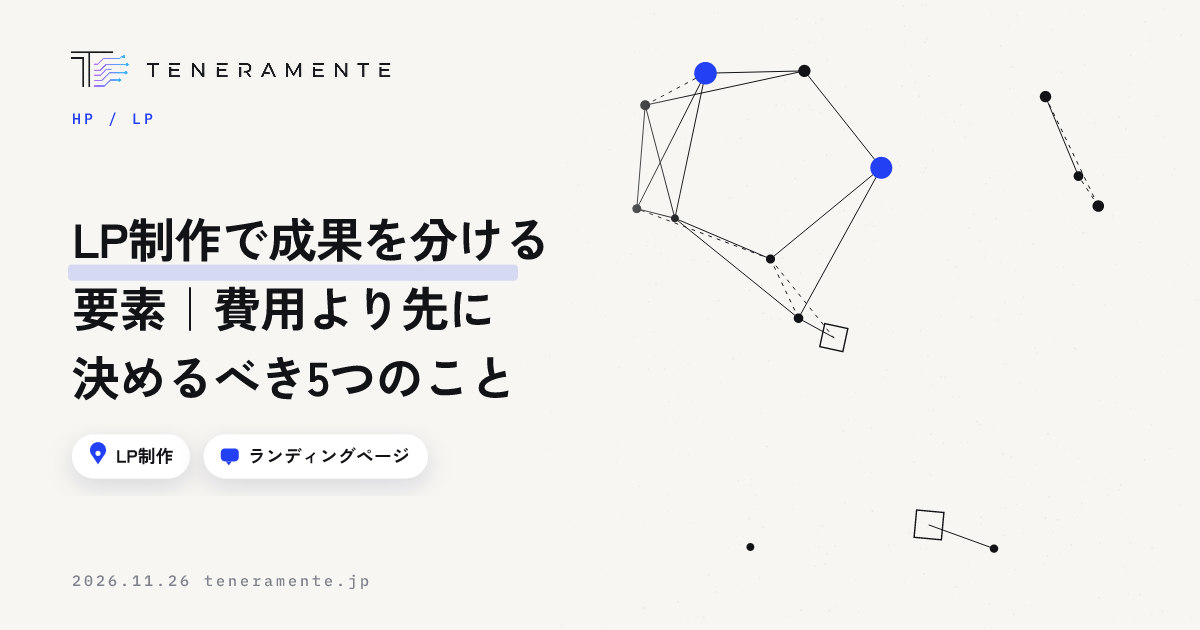
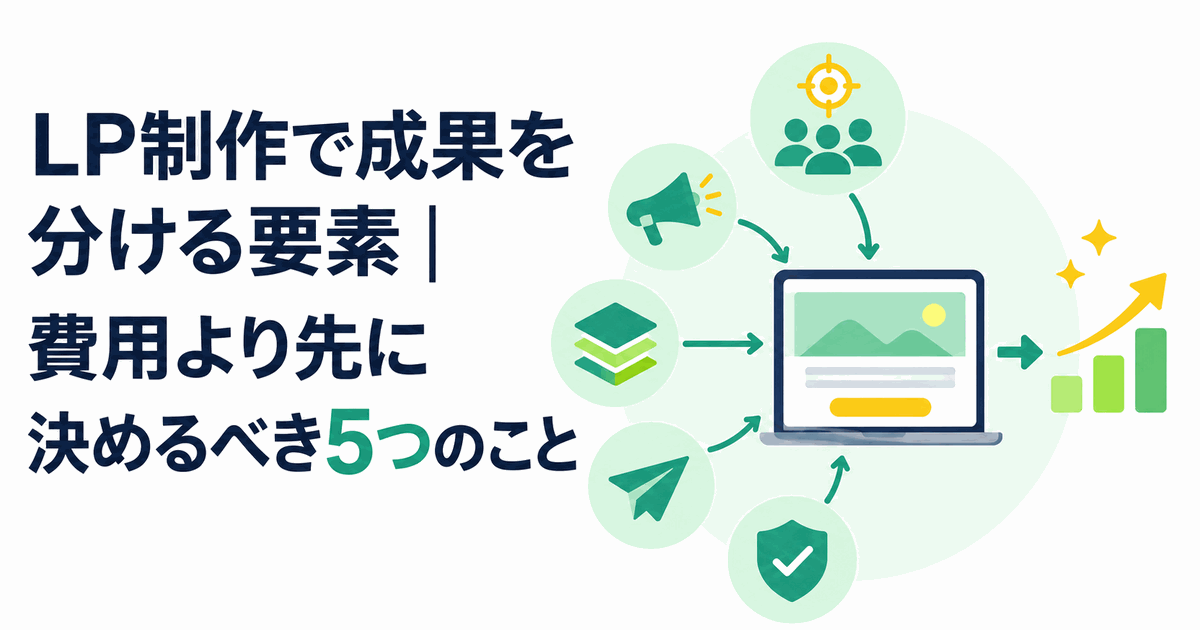
covers: 記事のトップ画像を ChatGPT の画像に差し替え（k042・k045・k035・m209・m208・m207・m206・m060）

diff --git a/mieroom/articles/moushikomi-juufuku-taio.html b/mieroom/articles/moushikomi-juufuku-taio.html
@@ -13,12 +13,15 @@
 <meta property="og:description" content="同じ部屋に申込が重なったときの店舗側の進め方を整理しました。最初に確かめる4つ、店舗で決められることと貸主・管理会社が決めること、二番手の方への伝え方、順番が後から分かる記録の残し方、よくある失敗までをまとめています。">
 <meta property="og:url" content="https://mieroom.cloud/articles/moushikomi-juufuku-taio.html">
 <meta property="og:site_name" content="ミエルーム">
+<meta property="og:image" content="https://mieroom.cloud/assets/covers/moushikomi-juufuku-taio.png">
+<meta property="og:image:width" content="1200">
+<meta property="og:image:height" content="675">
 <meta name="twitter:card" content="summary_large_image">
 <link rel="preconnect" href="https://fonts.googleapis.com">
 <link rel="preconnect" href="https://fonts.gstatic.com" crossorigin>
 <link href="https://fonts.googleapis.com/css2?family=Noto+Sans+JP:wght@400;500;700;900&family=Zen+Kaku+Gothic+New:wght@500;700;900&display=swap" rel="stylesheet">
 <link rel="stylesheet" href="../assets/site.css">
-<script type="application/ld+json">{"@context":"https://schema.org","@graph":[{"@type":"BlogPosting","headline":"賃貸の申込が重なったときの進め方｜一番手・二番手の管理と伝え方","description":"同じ部屋に申込が重なったときの店舗側の進め方を整理しました。最初に確かめる4つ、店舗で決められることと貸主・管理会社が決めること、二番手の方への伝え方、順番が後から分かる記録の残し方、よくある失敗までをまとめています。","datePublished":"2026-11-25","dateModified":"2026-11-25","inLanguage":"ja","mainEntityOfPage":"https://mieroom.cloud/articles/moushikomi-juufuku-taio.html","articleSection":"業務効率化","author":{"@type":"Organization","name":"ミエルーム編集部"},"publisher":{"@type":"Organization","name":"株式会社TENERAMENTE","logo":{"@type":"ImageObject","url":"https://teneramente.jp/assets/img/favicon-512.png"}},"keywords":"申込管理, 入居審査, 繁忙期, 業務効率化, 賃貸仲介"},{"@type":"BreadcrumbList","itemListElement":[{"@type":"ListItem","position":1,"name":"ミエルーム","item":"https://mieroom.cloud/"},{"@type":"ListItem","position":2,"name":"ブログ","item":"https://mieroom.cloud/blog.html"},{"@type":"ListItem","position":3,"name":"賃貸の申込が重なったときの進め方｜一番手・二番手の管理と伝え方","item":"https://mieroom.cloud/articles/moushikomi-juufuku-taio.html"}]},{"@type":"FAQPage","mainEntity":[{"@type":"Question","name":"申込は先に出した方が有利になるのでしょうか？","acceptedAnswer":{"@type":"Answer","text":"部屋によって異なります。申込を受けた順に審査へ進める方針の貸主もいますし、複数の申込内容を比べて決める方針の貸主もいます。店舗側で判断できる事項ではないため、部屋ごとに方針を確認し、確認した内容を案件に残しておくのが確実です。お客様には、順番と内容を正確に伝える役割であることをお話しください。"}},{"@type":"Question","name":"2件目の申込書は、受け取らないほうがよいですか？","acceptedAnswer":{"@type":"Answer","text":"受け取る・受け取らないのどちらにも理由があるため、店舗として基準を先に決めておく形をおすすめします。受け取る場合は、先に申込が入っている状態であることをその場で伝え、伝えた日時を記録に残してください。基準が担当者ごとに違うと、同じ店舗で対応が分かれ、説明がつかなくなります。"}},{"@type":"Question","name":"一番手の方の審査が長引いています。二番手の方にどう伝えればよいですか？","acceptedAnswer":{"@type":"Answer","text":"分かっている事実と、分かっていないことを分けて伝えます。審査が進行中であること、結果の連絡が来ていないこと、分かり次第すぐに連絡すること。この3つで足ります。見込みの時期を伝える場合は、貸主や保証会社から聞いた範囲に限ってください。こちらの推測で期間を言うと、過ぎたときに不信につながります。"}},{"@type":"Question","name":"他社が先に申込を入れているかどうかは、確認できますか？","acceptedAnswer":{"@type":"Answer","text":"自社で預かっていない部屋では、管理会社や貸主に確認する形になります。業者間サイトの情報は更新の間隔があるため、申込状況が反映されていない場合があります。案内の前に申込の有無を確認し、確認した日時を残しておくと、重複に気づくのが早くなります。"}},{"@type":"Question","name":"重複が起きたとき、記録はどこまで残すべきですか？","acceptedAnswer":{"@type":"Answer","text":"日時・相手・伝えた内容の3点が残っていれば、後から経緯を説明できます。細かい会話の全文は不要です。重要なのは、伝えた内容と伝えた時刻が対応していることと、その記録を担当者以外も見られる場所にあることです。個人のメールや手帳の中だけに残る形は避けてください。"}}]}]}</script>
+<script type="application/ld+json">{"@context":"https://schema.org","@graph":[{"@type":"BlogPosting","headline":"賃貸の申込が重なったときの進め方｜一番手・二番手の管理と伝え方","description":"同じ部屋に申込が重なったときの店舗側の進め方を整理しました。最初に確かめる4つ、店舗で決められることと貸主・管理会社が決めること、二番手の方への伝え方、順番が後から分かる記録の残し方、よくある失敗までをまとめています。","datePublished":"2026-11-25","dateModified":"2026-11-25","inLanguage":"ja","mainEntityOfPage":"https://mieroom.cloud/articles/moushikomi-juufuku-taio.html","image":"https://mieroom.cloud/assets/covers/moushikomi-juufuku-taio.png","articleSection":"業務効率化","author":{"@type":"Organization","name":"ミエルーム編集部"},"publisher":{"@type":"Organization","name":"株式会社TENERAMENTE","logo":{"@type":"ImageObject","url":"https://teneramente.jp/assets/img/favicon-512.png"}},"keywords":"申込管理, 入居審査, 繁忙期, 業務効率化, 賃貸仲介"},{"@type":"BreadcrumbList","itemListElement":[{"@type":"ListItem","position":1,"name":"ミエルーム","item":"https://mieroom.cloud/"},{"@type":"ListItem","position":2,"name":"ブログ","item":"https://mieroom.cloud/blog.html"},{"@type":"ListItem","position":3,"name":"賃貸の申込が重なったときの進め方｜一番手・二番手の管理と伝え方","item":"https://mieroom.cloud/articles/moushikomi-juufuku-taio.html"}]},{"@type":"FAQPage","mainEntity":[{"@type":"Question","name":"申込は先に出した方が有利になるのでしょうか？","acceptedAnswer":{"@type":"Answer","text":"部屋によって異なります。申込を受けた順に審査へ進める方針の貸主もいますし、複数の申込内容を比べて決める方針の貸主もいます。店舗側で判断できる事項ではないため、部屋ごとに方針を確認し、確認した内容を案件に残しておくのが確実です。お客様には、順番と内容を正確に伝える役割であることをお話しください。"}},{"@type":"Question","name":"2件目の申込書は、受け取らないほうがよいですか？","acceptedAnswer":{"@type":"Answer","text":"受け取る・受け取らないのどちらにも理由があるため、店舗として基準を先に決めておく形をおすすめします。受け取る場合は、先に申込が入っている状態であることをその場で伝え、伝えた日時を記録に残してください。基準が担当者ごとに違うと、同じ店舗で対応が分かれ、説明がつかなくなります。"}},{"@type":"Question","name":"一番手の方の審査が長引いています。二番手の方にどう伝えればよいですか？","acceptedAnswer":{"@type":"Answer","text":"分かっている事実と、分かっていないことを分けて伝えます。審査が進行中であること、結果の連絡が来ていないこと、分かり次第すぐに連絡すること。この3つで足ります。見込みの時期を伝える場合は、貸主や保証会社から聞いた範囲に限ってください。こちらの推測で期間を言うと、過ぎたときに不信につながります。"}},{"@type":"Question","name":"他社が先に申込を入れているかどうかは、確認できますか？","acceptedAnswer":{"@type":"Answer","text":"自社で預かっていない部屋では、管理会社や貸主に確認する形になります。業者間サイトの情報は更新の間隔があるため、申込状況が反映されていない場合があります。案内の前に申込の有無を確認し、確認した日時を残しておくと、重複に気づくのが早くなります。"}},{"@type":"Question","name":"重複が起きたとき、記録はどこまで残すべきですか？","acceptedAnswer":{"@type":"Answer","text":"日時・相手・伝えた内容の3点が残っていれば、後から経緯を説明できます。細かい会話の全文は不要です。重要なのは、伝えた内容と伝えた時刻が対応していることと、その記録を担当者以外も見られる場所にあることです。個人のメールや手帳の中だけに残る形は避けてください。"}}]}]}</script>
 <style id="mp-nav-fit">
 /* 狭い画面ではヘッダーのボタンを小さくして、右にはみ出さないようにする */
 @media (max-width: 640px) {
@@ -72,7 +75,9 @@
     </div>
   </div>
 </section>
-
+<div class="post-cover">
+  <div class="band band--img"><img src="../assets/covers/moushikomi-juufuku-taio.webp" alt="賃貸の申込が重なったときの進め方｜一番手・二番手の管理と伝え方" width="1200" height="675" decoding="async"></div>
+</div>
 <div class="post-body">
 <p>同じ部屋に、同じ日のうちに申込が2件入った。先に書類を受け取ったのはこちらだが、もう一方は条件が良い。どちらを先に通すのかを、その場で聞かれる。賃貸仲介の店舗で、判断に迷いやすく、後から苦情になりやすい場面です。結論から申し上げると、<strong>申込の重複でもめるのは判断そのものではなく、順番と伝えた内容が記録に残っていないこと</strong>が原因です。この記事では、重なった日に迷わない進め方を順番で整理します。</p>
 <div class="conclusion"><h4>この記事の結論</h4><p>申込の重複は、店舗が決めることと貸主・管理会社が決めることを分けると迷わなくなります。先に確かめるのは<strong>受付の時刻と書類の揃い具合</strong>、決めるのは貸主側、店舗の仕事は事実を正確に伝えて記録に残すことです。この順番を崩すと、約束していないことを約束したと受け取られます。</p></div>

diff --git a/mieroom/articles/gyomu-buntan-kimekata.html b/mieroom/articles/gyomu-buntan-kimekata.html
@@ -13,12 +13,15 @@
 <meta property="og:description" content="賃貸仲介の店舗で役割分担を見直すときの決め方を整理しました。仕事を8つの工程に分けた棚卸し、一貫担当と分業で起きることの違い、決める前に確かめる4つ、受け渡しで残す情報、崩れないためのチェックリストまでをまとめています。">
 <meta property="og:url" content="https://mieroom.cloud/articles/gyomu-buntan-kimekata.html">
 <meta property="og:site_name" content="ミエルーム">
+<meta property="og:image" content="https://mieroom.cloud/assets/covers/gyomu-buntan-kimekata.png">
+<meta property="og:image:width" content="1200">
+<meta property="og:image:height" content="675">
 <meta name="twitter:card" content="summary_large_image">
 <link rel="preconnect" href="https://fonts.googleapis.com">
 <link rel="preconnect" href="https://fonts.gstatic.com" crossorigin>
 <link href="https://fonts.googleapis.com/css2?family=Noto+Sans+JP:wght@400;500;700;900&family=Zen+Kaku+Gothic+New:wght@500;700;900&display=swap" rel="stylesheet">
 <link rel="stylesheet" href="../assets/site.css">
-<script type="application/ld+json">{"@context":"https://schema.org","@graph":[{"@type":"BlogPosting","headline":"賃貸仲介の業務分担の決め方｜一貫担当と分業の分かれ目","description":"賃貸仲介の店舗で役割分担を見直すときの決め方を整理しました。仕事を8つの工程に分けた棚卸し、一貫担当と分業で起きることの違い、決める前に確かめる4つ、受け渡しで残す情報、崩れないためのチェックリストまでをまとめています。","datePublished":"2026-11-26","dateModified":"2026-11-26","inLanguage":"ja","mainEntityOfPage":"https://mieroom.cloud/articles/gyomu-buntan-kimekata.html","articleSection":"組織・育成","author":{"@type":"Organization","name":"ミエルーム編集部"},"publisher":{"@type":"Organization","name":"株式会社TENERAMENTE","logo":{"@type":"ImageObject","url":"https://teneramente.jp/assets/img/favicon-512.png"}},"keywords":"組織づくり, 役割分担, 店舗運営, 繁忙期, 賃貸仲介"},{"@type":"BreadcrumbList","itemListElement":[{"@type":"ListItem","position":1,"name":"ミエルーム","item":"https://mieroom.cloud/"},{"@type":"ListItem","position":2,"name":"ブログ","item":"https://mieroom.cloud/blog.html"},{"@type":"ListItem","position":3,"name":"賃貸仲介の業務分担の決め方｜一貫担当と分業の分かれ目","item":"https://mieroom.cloud/articles/gyomu-buntan-kimekata.html"}]},{"@type":"FAQPage","mainEntity":[{"@type":"Question","name":"スタッフが2人の店舗でも分担を決めたほうがよいですか？","acceptedAnswer":{"@type":"Answer","text":"工程を分けて割り当てる必要はありませんが、棚卸しだけは行う価値があります。2人でも、誰の担当でもない工程は必ず出ます。申込書の不備の確認や審査の追いかけを、どちらが見るか決めておくだけで、抜けが減ります。形としては一貫担当のまま、止まったときに気づく役だけを決める運用が合います。"}},{"@type":"Question","name":"分業にすると、お客様が「担当が変わった」と不安に思いませんか？","acceptedAnswer":{"@type":"Answer","text":"引き継ぎの質で決まります。受け取った側が、希望条件と案内済みの物件、前の担当が約束した内容を把握していれば、不安にはなりにくいものです。逆に、同じ質問を繰り返したり、約束を知らずに別の案を出したりすると、担当の数に関係なく信用を落とします。引き継ぐときは、誰が引き継いだかをお客様に先に伝えてください。"}},{"@type":"Question","name":"繁忙期だけ分けると、スタッフが混乱しませんか？","acceptedAnswer":{"@type":"Answer","text":"切り替える時期と、そのとき誰が何を持つかを先に紙にしておけば、混乱は小さく収まります。混乱が起きるのは、繁忙期に入ってから相談して決める場合です。閑散期のうちに一度だけ練習として分けて回してみると、本番で迷う場所が事前に分かります。"}},{"@type":"Question","name":"新しく入ったスタッフには、どの工程から任せるのがよいですか？","acceptedAnswer":{"@type":"Answer","text":"お客様をお待たせしない工程で、やり直しがきく工程から任せるのが基本です。物件資料の作成や、反響の一次受け付けの定型の返信は、形が決まっているため早く覚えられます。条件の交渉や申込の判断は、経緯の把握が必要なので後になります。覚える順番は店舗の反響の経路によって変わるので、工程の一覧を見ながら決めてください。"}},{"@type":"Question","name":"分担を決めても守られないときは、どうすればよいですか？","acceptedAnswer":{"@type":"Answer","text":"守れない工程に理由があることが多いので、まずその工程の手間を確かめてください。受け渡しのために転記が必要だったり、書く場所が複数あったりすると、忙しい日に飛ばされます。決めたことを徹底する前に、手間そのものを減らせないかを見るほうが早く定着します。"}}]}]}</script>
+<script type="application/ld+json">{"@context":"https://schema.org","@graph":[{"@type":"BlogPosting","headline":"賃貸仲介の業務分担の決め方｜一貫担当と分業の分かれ目","description":"賃貸仲介の店舗で役割分担を見直すときの決め方を整理しました。仕事を8つの工程に分けた棚卸し、一貫担当と分業で起きることの違い、決める前に確かめる4つ、受け渡しで残す情報、崩れないためのチェックリストまでをまとめています。","datePublished":"2026-11-26","dateModified":"2026-11-26","inLanguage":"ja","mainEntityOfPage":"https://mieroom.cloud/articles/gyomu-buntan-kimekata.html","image":"https://mieroom.cloud/assets/covers/gyomu-buntan-kimekata.png","articleSection":"組織・育成","author":{"@type":"Organization","name":"ミエルーム編集部"},"publisher":{"@type":"Organization","name":"株式会社TENERAMENTE","logo":{"@type":"ImageObject","url":"https://teneramente.jp/assets/img/favicon-512.png"}},"keywords":"組織づくり, 役割分担, 店舗運営, 繁忙期, 賃貸仲介"},{"@type":"BreadcrumbList","itemListElement":[{"@type":"ListItem","position":1,"name":"ミエルーム","item":"https://mieroom.cloud/"},{"@type":"ListItem","position":2,"name":"ブログ","item":"https://mieroom.cloud/blog.html"},{"@type":"ListItem","position":3,"name":"賃貸仲介の業務分担の決め方｜一貫担当と分業の分かれ目","item":"https://mieroom.cloud/articles/gyomu-buntan-kimekata.html"}]},{"@type":"FAQPage","mainEntity":[{"@type":"Question","name":"スタッフが2人の店舗でも分担を決めたほうがよいですか？","acceptedAnswer":{"@type":"Answer","text":"工程を分けて割り当てる必要はありませんが、棚卸しだけは行う価値があります。2人でも、誰の担当でもない工程は必ず出ます。申込書の不備の確認や審査の追いかけを、どちらが見るか決めておくだけで、抜けが減ります。形としては一貫担当のまま、止まったときに気づく役だけを決める運用が合います。"}},{"@type":"Question","name":"分業にすると、お客様が「担当が変わった」と不安に思いませんか？","acceptedAnswer":{"@type":"Answer","text":"引き継ぎの質で決まります。受け取った側が、希望条件と案内済みの物件、前の担当が約束した内容を把握していれば、不安にはなりにくいものです。逆に、同じ質問を繰り返したり、約束を知らずに別の案を出したりすると、担当の数に関係なく信用を落とします。引き継ぐときは、誰が引き継いだかをお客様に先に伝えてください。"}},{"@type":"Question","name":"繁忙期だけ分けると、スタッフが混乱しませんか？","acceptedAnswer":{"@type":"Answer","text":"切り替える時期と、そのとき誰が何を持つかを先に紙にしておけば、混乱は小さく収まります。混乱が起きるのは、繁忙期に入ってから相談して決める場合です。閑散期のうちに一度だけ練習として分けて回してみると、本番で迷う場所が事前に分かります。"}},{"@type":"Question","name":"新しく入ったスタッフには、どの工程から任せるのがよいですか？","acceptedAnswer":{"@type":"Answer","text":"お客様をお待たせしない工程で、やり直しがきく工程から任せるのが基本です。物件資料の作成や、反響の一次受け付けの定型の返信は、形が決まっているため早く覚えられます。条件の交渉や申込の判断は、経緯の把握が必要なので後になります。覚える順番は店舗の反響の経路によって変わるので、工程の一覧を見ながら決めてください。"}},{"@type":"Question","name":"分担を決めても守られないときは、どうすればよいですか？","acceptedAnswer":{"@type":"Answer","text":"守れない工程に理由があることが多いので、まずその工程の手間を確かめてください。受け渡しのために転記が必要だったり、書く場所が複数あったりすると、忙しい日に飛ばされます。決めたことを徹底する前に、手間そのものを減らせないかを見るほうが早く定着します。"}}]}]}</script>
 <style id="mp-nav-fit">
 /* 狭い画面ではヘッダーのボタンを小さくして、右にはみ出さないようにする */
 @media (max-width: 640px) {
@@ -72,7 +75,9 @@
     </div>
   </div>
 </section>
-
+<div class="post-cover">
+  <div class="band band--img"><img src="../assets/covers/gyomu-buntan-kimekata.webp" alt="賃貸仲介の業務分担の決め方｜一貫担当と分業の分かれ目" width="1200" height="675" decoding="async"></div>
+</div>
 <div class="post-body">
 <p>人が増えたのに、以前より回らない。繁忙期は全員が全部をやるしかなく、お客様をお待たせしてしまう。賃貸仲介の店舗で、人数が3人を超えたあたりから出てくるご相談です。結論から申し上げると、<strong>分担が決まらないのは、仕事を工程に分けないまま人に割り当てている</strong>ためです。この記事では、分担の決め方を順番で整理します。</p>
 <div class="conclusion"><h4>この記事の結論</h4><p>業務分担は、人に割り当てる前に仕事を工程へ分けるところから始めます。判断の軸は<strong>反響の量とスタッフの経験</strong>の2つで、どちらも足りない店舗が分業にすると引き継ぎの手間だけが増えます。分けるなら、受け渡しの場所と残す情報を先に決めてください。</p></div>

diff --git a/mieroom/articles/raiki-uriage-keikaku.html b/mieroom/articles/raiki-uriage-keikaku.html
@@ -13,12 +13,15 @@
 <meta property="og:description" content="賃貸仲介の来期の売上計画を、前年実績の月別の並べ方から月ごとの役割の分け方、確定売上と見込みの分け方、人数と稼働からの上限の確かめ方まで手順で整理しました。計画を作る前のチェックリストとよくある失敗もまとめています。">
 <meta property="og:url" content="https://mieroom.cloud/articles/raiki-uriage-keikaku.html">
 <meta property="og:site_name" content="ミエルーム">
+<meta property="og:image" content="https://mieroom.cloud/assets/covers/raiki-uriage-keikaku.png">
+<meta property="og:image:width" content="1200">
+<meta property="og:image:height" content="675">
 <meta name="twitter:card" content="summary_large_image">
 <link rel="preconnect" href="https://fonts.googleapis.com">
 <link rel="preconnect" href="https://fonts.gstatic.com" crossorigin>
 <link href="https://fonts.googleapis.com/css2?family=Noto+Sans+JP:wght@400;500;700;900&family=Zen+Kaku+Gothic+New:wght@500;700;900&display=swap" rel="stylesheet">
 <link rel="stylesheet" href="../assets/site.css">
-<script type="application/ld+json">{"@context":"https://schema.org","@graph":[{"@type":"BlogPosting","headline":"賃貸仲介の来期売上計画の立て方｜月別の季節差を踏まえて組む手順","description":"賃貸仲介の来期の売上計画を、前年実績の月別の並べ方から月ごとの役割の分け方、確定売上と見込みの分け方、人数と稼働からの上限の確かめ方まで手順で整理しました。計画を作る前のチェックリストとよくある失敗もまとめています。","datePublished":"2026-11-27","dateModified":"2026-11-27","inLanguage":"ja","mainEntityOfPage":"https://mieroom.cloud/articles/raiki-uriage-keikaku.html","articleSection":"売上管理","author":{"@type":"Organization","name":"ミエルーム編集部"},"publisher":{"@type":"Organization","name":"株式会社TENERAMENTE","logo":{"@type":"ImageObject","url":"https://teneramente.jp/assets/img/favicon-512.png"}},"keywords":"売上管理, 売上計画, 目標設定, 店舗運営, 賃貸仲介"},{"@type":"BreadcrumbList","itemListElement":[{"@type":"ListItem","position":1,"name":"ミエルーム","item":"https://mieroom.cloud/"},{"@type":"ListItem","position":2,"name":"ブログ","item":"https://mieroom.cloud/blog.html"},{"@type":"ListItem","position":3,"name":"賃貸仲介の来期売上計画の立て方｜月別の季節差を踏まえて組む手順","item":"https://mieroom.cloud/articles/raiki-uriage-keikaku.html"}]},{"@type":"FAQPage","mainEntity":[{"@type":"Question","name":"開業してまだ1年経っていません。前年の数字がない場合はどうすればいいですか？","acceptedAnswer":{"@type":"Answer","text":"手元にある数か月分を月別に並べ、季節の動きは一般的な傾向で補います。そのうえで、人数と稼働から「さばける上限」を先に出し、そこから計画を置くのが現実的です。1年分の実績が揃った翌期から、自店の実績で組み直してください。"}},{"@type":"Question","name":"月を数える日付は、契約日と入金日のどちらがよいですか？","acceptedAnswer":{"@type":"Answer","text":"計画の使い道で決まります。現場の動きを追うなら契約日、資金の計画に使うなら入金日です。どちらか一方に決めて並べるのが前提ですが、両方必要な場合は最初から両方の数え方で持っておきます。途中で数え方を変えると、前年との比較ができなくなります。"}},{"@type":"Question","name":"広告料（AD）は売上計画に入れるべきですか？","acceptedAnswer":{"@type":"Answer","text":"入れますが、仲介手数料とは分けて置きます。入ってくる時期も、回収にかかる手間も違うためです。分けておくと、月の売上が届かなかったときに、成約が足りなかったのか回収が遅れているのかを切り分けられます。"}},{"@type":"Question","name":"担当者ごとの目標は、計画と同時に決めるべきですか？","acceptedAnswer":{"@type":"Answer","text":"店舗の月別の計画を先に固め、そのあとに担当別へ落とす順番をおすすめします。先に個人の目標を決めると、合計が店舗の計画と合わなくなります。落とすときは経験と担当する工程の違いを見て、同じ率で割らないようにします。"}},{"@type":"Question","name":"計画は期中に見直してもよいのでしょうか？","acceptedAnswer":{"@type":"Answer","text":"見直して構いません。ただし、見直す基準を先に決めておくのが大切です。「繁忙期の入り方が前年と大きく違った場合に、残りの月を組み直す」のように条件を決めておくと、都合の悪い月だけ下げる見直しになりません。"}}]}]}</script>
+<script type="application/ld+json">{"@context":"https://schema.org","@graph":[{"@type":"BlogPosting","headline":"賃貸仲介の来期売上計画の立て方｜月別の季節差を踏まえて組む手順","description":"賃貸仲介の来期の売上計画を、前年実績の月別の並べ方から月ごとの役割の分け方、確定売上と見込みの分け方、人数と稼働からの上限の確かめ方まで手順で整理しました。計画を作る前のチェックリストとよくある失敗もまとめています。","datePublished":"2026-11-27","dateModified":"2026-11-27","inLanguage":"ja","mainEntityOfPage":"https://mieroom.cloud/articles/raiki-uriage-keikaku.html","image":"https://mieroom.cloud/assets/covers/raiki-uriage-keikaku.png","articleSection":"売上管理","author":{"@type":"Organization","name":"ミエルーム編集部"},"publisher":{"@type":"Organization","name":"株式会社TENERAMENTE","logo":{"@type":"ImageObject","url":"https://teneramente.jp/assets/img/favicon-512.png"}},"keywords":"売上管理, 売上計画, 目標設定, 店舗運営, 賃貸仲介"},{"@type":"BreadcrumbList","itemListElement":[{"@type":"ListItem","position":1,"name":"ミエルーム","item":"https://mieroom.cloud/"},{"@type":"ListItem","position":2,"name":"ブログ","item":"https://mieroom.cloud/blog.html"},{"@type":"ListItem","position":3,"name":"賃貸仲介の来期売上計画の立て方｜月別の季節差を踏まえて組む手順","item":"https://mieroom.cloud/articles/raiki-uriage-keikaku.html"}]},{"@type":"FAQPage","mainEntity":[{"@type":"Question","name":"開業してまだ1年経っていません。前年の数字がない場合はどうすればいいですか？","acceptedAnswer":{"@type":"Answer","text":"手元にある数か月分を月別に並べ、季節の動きは一般的な傾向で補います。そのうえで、人数と稼働から「さばける上限」を先に出し、そこから計画を置くのが現実的です。1年分の実績が揃った翌期から、自店の実績で組み直してください。"}},{"@type":"Question","name":"月を数える日付は、契約日と入金日のどちらがよいですか？","acceptedAnswer":{"@type":"Answer","text":"計画の使い道で決まります。現場の動きを追うなら契約日、資金の計画に使うなら入金日です。どちらか一方に決めて並べるのが前提ですが、両方必要な場合は最初から両方の数え方で持っておきます。途中で数え方を変えると、前年との比較ができなくなります。"}},{"@type":"Question","name":"広告料（AD）は売上計画に入れるべきですか？","acceptedAnswer":{"@type":"Answer","text":"入れますが、仲介手数料とは分けて置きます。入ってくる時期も、回収にかかる手間も違うためです。分けておくと、月の売上が届かなかったときに、成約が足りなかったのか回収が遅れているのかを切り分けられます。"}},{"@type":"Question","name":"担当者ごとの目標は、計画と同時に決めるべきですか？","acceptedAnswer":{"@type":"Answer","text":"店舗の月別の計画を先に固め、そのあとに担当別へ落とす順番をおすすめします。先に個人の目標を決めると、合計が店舗の計画と合わなくなります。落とすときは経験と担当する工程の違いを見て、同じ率で割らないようにします。"}},{"@type":"Question","name":"計画は期中に見直してもよいのでしょうか？","acceptedAnswer":{"@type":"Answer","text":"見直して構いません。ただし、見直す基準を先に決めておくのが大切です。「繁忙期の入り方が前年と大きく違った場合に、残りの月を組み直す」のように条件を決めておくと、都合の悪い月だけ下げる見直しになりません。"}}]}]}</script>
 <style id="mp-nav-fit">
 /* 狭い画面ではヘッダーのボタンを小さくして、右にはみ出さないようにする */
 @media (max-width: 640px) {
@@ -72,7 +75,9 @@
     </div>
   </div>
 </section>
-
+<div class="post-cover">
+  <div class="band band--img"><img src="../assets/covers/raiki-uriage-keikaku.webp" alt="賃貸仲介の来期売上計画の立て方｜月別の季節差を踏まえて組む手順" width="1200" height="675" decoding="async"></div>
+</div>
 <div class="post-body">
 <p>年明けの繁忙期を前に、来期の売上計画を考える時期です。ただ、年間の目標額を決めて12で割った計画は、月末に見ても手が打てません。<strong>賃貸仲介の計画が効くのは、月ごとの性格の違いを織り込めたとき</strong>です。この記事では、来期の売上計画を月から積み上げる手順を整理します。</p>
 <div class="conclusion"><h4>この記事の結論</h4><p>賃貸仲介の売上計画は、年間の合計を決めてから月に割るのではなく、<strong>前年の実績を月別に並べてから積み上げる</strong>と現場で使えます。繁忙期・端境・閑散期で月の役割を分け、件数と1件あたりに分解し、人数と稼働で上限を確かめてから数字を置きます。</p></div>

diff --git a/mieroom/articles/jisha-site-hankyo.html b/mieroom/articles/jisha-site-hankyo.html
@@ -13,12 +13,15 @@
 <meta property="og:description" content="ポータル頼みの集客から抜け出したい賃貸仲介の店舗に向けて、自社ホームページから反響を取るまでの順番をまとめました。先に直す3か所、物件情報の載せ方、問い合わせ経路の作り方、経路別に数える仕組み、よくある失敗までを整理しています。">
 <meta property="og:url" content="https://mieroom.cloud/articles/jisha-site-hankyo.html">
 <meta property="og:site_name" content="ミエルーム">
+<meta property="og:image" content="https://mieroom.cloud/assets/covers/jisha-site-hankyo.png">
+<meta property="og:image:width" content="1200">
+<meta property="og:image:height" content="675">
 <meta name="twitter:card" content="summary_large_image">
 <link rel="preconnect" href="https://fonts.googleapis.com">
 <link rel="preconnect" href="https://fonts.gstatic.com" crossorigin>
 <link href="https://fonts.googleapis.com/css2?family=Noto+Sans+JP:wght@400;500;700;900&family=Zen+Kaku+Gothic+New:wght@500;700;900&display=swap" rel="stylesheet">
 <link rel="stylesheet" href="../assets/site.css">
-<script type="application/ld+json">{"@context":"https://schema.org","@graph":[{"@type":"BlogPosting","headline":"賃貸仲介の自社ホームページから反響を取る方法｜ポータル以外の経路を育てる順番","description":"ポータル頼みの集客から抜け出したい賃貸仲介の店舗に向けて、自社ホームページから反響を取るまでの順番をまとめました。先に直す3か所、物件情報の載せ方、問い合わせ経路の作り方、経路別に数える仕組み、よくある失敗までを整理しています。","datePublished":"2026-11-24","dateModified":"2026-11-24","inLanguage":"ja","mainEntityOfPage":"https://mieroom.cloud/articles/jisha-site-hankyo.html","articleSection":"集客・広告","author":{"@type":"Organization","name":"ミエルーム編集部"},"publisher":{"@type":"Organization","name":"株式会社TENERAMENTE","logo":{"@type":"ImageObject","url":"https://teneramente.jp/assets/img/favicon-512.png"}},"keywords":"自社サイト, 反響, 集客, ホームページ, 賃貸仲介"},{"@type":"BreadcrumbList","itemListElement":[{"@type":"ListItem","position":1,"name":"ミエルーム","item":"https://mieroom.cloud/"},{"@type":"ListItem","position":2,"name":"ブログ","item":"https://mieroom.cloud/blog.html"},{"@type":"ListItem","position":3,"name":"賃貸仲介の自社ホームページから反響を取る方法｜ポータル以外の経路を育てる順番","item":"https://mieroom.cloud/articles/jisha-site-hankyo.html"}]},{"@type":"FAQPage","mainEntity":[{"@type":"Question","name":"自社サイトとポータル、どちらに力を入れるべきですか？","acceptedAnswer":{"@type":"Answer","text":"同時に持つのが現実的です。ポータルはすぐ反響が立ち上がる代わりに、出し続ける費用がかかります。自社サイトは時間がかかる代わりに積み上がります。ポータルで反響を確保しながら、自社サイトの受け皿を整えていく順番をおすすめします。"}},{"@type":"Question","name":"どのくらいで反響が来るようになりますか？","acceptedAnswer":{"@type":"Answer","text":"期間は地域の状況と扱う物件によって変わるため、一律には言えません。ただし、店舗情報と問い合わせの入口の見直しは、すでに来ている訪問者に効くため比較的早く変化が見えます。地域ページからの検索流入は、積み上がるまで時間がかかります。"}},{"@type":"Question","name":"サイトを作り直したほうがいいですか？","acceptedAnswer":{"@type":"Answer","text":"スマートフォンで見られない、更新ができない、問い合わせフォームが動いていないといった場合は作り直しが必要です。そうでなければ、今のサイトで店舗情報と入口を直し、反響の記録を取り始めてから判断したほうが無駄がありません。"}},{"@type":"Question","name":"物件はどのくらい載せればいいですか？","acceptedAnswer":{"@type":"Answer","text":"数より鮮度です。決まった物件が載っている状態をなくせる範囲に絞ってください。自社で預かっている物件と、公開前の物件を中心に置くと、ポータルと見比べる理由が生まれます。"}},{"@type":"Question","name":"反響の経路は、どう記録すればいいですか？","acceptedAnswer":{"@type":"Answer","text":"反響1件ごとに、入った日時・経路・内容を残す形が最小です。電話で入った反響も同じ欄に記録してください。経路の選択肢を先に決めておくと、月末の集計で表記のばらつきに悩まなくなります。"}}]}]}</script>
+<script type="application/ld+json">{"@context":"https://schema.org","@graph":[{"@type":"BlogPosting","headline":"賃貸仲介の自社ホームページから反響を取る方法｜ポータル以外の経路を育てる順番","description":"ポータル頼みの集客から抜け出したい賃貸仲介の店舗に向けて、自社ホームページから反響を取るまでの順番をまとめました。先に直す3か所、物件情報の載せ方、問い合わせ経路の作り方、経路別に数える仕組み、よくある失敗までを整理しています。","datePublished":"2026-11-24","dateModified":"2026-11-24","inLanguage":"ja","mainEntityOfPage":"https://mieroom.cloud/articles/jisha-site-hankyo.html","image":"https://mieroom.cloud/assets/covers/jisha-site-hankyo.png","articleSection":"集客・広告","author":{"@type":"Organization","name":"ミエルーム編集部"},"publisher":{"@type":"Organization","name":"株式会社TENERAMENTE","logo":{"@type":"ImageObject","url":"https://teneramente.jp/assets/img/favicon-512.png"}},"keywords":"自社サイト, 反響, 集客, ホームページ, 賃貸仲介"},{"@type":"BreadcrumbList","itemListElement":[{"@type":"ListItem","position":1,"name":"ミエルーム","item":"https://mieroom.cloud/"},{"@type":"ListItem","position":2,"name":"ブログ","item":"https://mieroom.cloud/blog.html"},{"@type":"ListItem","position":3,"name":"賃貸仲介の自社ホームページから反響を取る方法｜ポータル以外の経路を育てる順番","item":"https://mieroom.cloud/articles/jisha-site-hankyo.html"}]},{"@type":"FAQPage","mainEntity":[{"@type":"Question","name":"自社サイトとポータル、どちらに力を入れるべきですか？","acceptedAnswer":{"@type":"Answer","text":"同時に持つのが現実的です。ポータルはすぐ反響が立ち上がる代わりに、出し続ける費用がかかります。自社サイトは時間がかかる代わりに積み上がります。ポータルで反響を確保しながら、自社サイトの受け皿を整えていく順番をおすすめします。"}},{"@type":"Question","name":"どのくらいで反響が来るようになりますか？","acceptedAnswer":{"@type":"Answer","text":"期間は地域の状況と扱う物件によって変わるため、一律には言えません。ただし、店舗情報と問い合わせの入口の見直しは、すでに来ている訪問者に効くため比較的早く変化が見えます。地域ページからの検索流入は、積み上がるまで時間がかかります。"}},{"@type":"Question","name":"サイトを作り直したほうがいいですか？","acceptedAnswer":{"@type":"Answer","text":"スマートフォンで見られない、更新ができない、問い合わせフォームが動いていないといった場合は作り直しが必要です。そうでなければ、今のサイトで店舗情報と入口を直し、反響の記録を取り始めてから判断したほうが無駄がありません。"}},{"@type":"Question","name":"物件はどのくらい載せればいいですか？","acceptedAnswer":{"@type":"Answer","text":"数より鮮度です。決まった物件が載っている状態をなくせる範囲に絞ってください。自社で預かっている物件と、公開前の物件を中心に置くと、ポータルと見比べる理由が生まれます。"}},{"@type":"Question","name":"反響の経路は、どう記録すればいいですか？","acceptedAnswer":{"@type":"Answer","text":"反響1件ごとに、入った日時・経路・内容を残す形が最小です。電話で入った反響も同じ欄に記録してください。経路の選択肢を先に決めておくと、月末の集計で表記のばらつきに悩まなくなります。"}}]}]}</script>
 <style id="mp-nav-fit">
 /* 狭い画面ではヘッダーのボタンを小さくして、右にはみ出さないようにする */
 @media (max-width: 640px) {
@@ -72,7 +75,9 @@
     </div>
   </div>
 </section>
-
+<div class="post-cover">
+  <div class="band band--img"><img src="../assets/covers/jisha-site-hankyo.webp" alt="賃貸仲介の自社ホームページから反響を取る方法｜ポータル以外の経路を育てる順番" width="1200" height="675" decoding="async"></div>
+</div>
 <div class="post-body">
 <p>ポータルの掲載費は上がるのに、反響は増えない。自社のホームページがあるのに、そこからの問い合わせはほとんど来ない。賃貸仲介の店舗で、集客の相談がいちばん多く集まるのがこの場面です。結論から申し上げると、<strong>自社ホームページからの反響は、物件を増やす前に受け皿を直したほうが先に動きます</strong>。この記事では、どこから手を付ければ反響が来るようになるのか、順番で整理します。</p>
 <div class="conclusion"><h4>この記事の結論</h4><p>自社サイトの反響が来ない原因は、ほとんどが物件数ではありません。見ている人が問い合わせる手前で止まっています。先に直すのは<strong>店舗情報と問い合わせの入口</strong>、次に物件情報の鮮度、最後に流入の経路です。この順番を逆にすると、手間をかけた分が反響になりません。</p></div>

diff --git a/mieroom/articles/kyakuzuke-hokoku.html b/mieroom/articles/kyakuzuke-hokoku.html
@@ -13,12 +13,15 @@
 <meta property="og:description" content="管理会社や元付へ送る客付け報告を、毎回ゼロから作らずにそろえる手順をまとめました。報告に入れる項目、送る頻度の決め方、決まらない物件の伝え方、報告を作る時間を減らす進め方まで整理しています。">
 <meta property="og:url" content="https://mieroom.cloud/articles/kyakuzuke-hokoku.html">
 <meta property="og:site_name" content="ミエルーム">
+<meta property="og:image" content="https://mieroom.cloud/assets/covers/kyakuzuke-hokoku.png">
+<meta property="og:image:width" content="1200">
+<meta property="og:image:height" content="675">
 <meta name="twitter:card" content="summary_large_image">
 <link rel="preconnect" href="https://fonts.googleapis.com">
 <link rel="preconnect" href="https://fonts.gstatic.com" crossorigin>
 <link href="https://fonts.googleapis.com/css2?family=Noto+Sans+JP:wght@400;500;700;900&family=Zen+Kaku+Gothic+New:wght@500;700;900&display=swap" rel="stylesheet">
 <link rel="stylesheet" href="../assets/site.css">
-<script type="application/ld+json">{"@context":"https://schema.org","@graph":[{"@type":"BlogPosting","headline":"管理会社への客付け報告の進め方｜募集状況をそろえて任される店舗になる","description":"管理会社や元付へ送る客付け報告を、毎回ゼロから作らずにそろえる手順をまとめました。報告に入れる項目、送る頻度の決め方、決まらない物件の伝え方、報告を作る時間を減らす進め方まで整理しています。","datePublished":"2026-10-27","dateModified":"2026-10-27","inLanguage":"ja","mainEntityOfPage":"https://mieroom.cloud/articles/kyakuzuke-hokoku.html","articleSection":"業務効率化","author":{"@type":"Organization","name":"ミエルーム編集部"},"publisher":{"@type":"Organization","name":"株式会社TENERAMENTE","logo":{"@type":"ImageObject","url":"https://teneramente.jp/assets/img/favicon-512.png"}},"keywords":"客付け報告, 管理会社, 募集状況, 業務効率化, 賃貸仲介"},{"@type":"BreadcrumbList","itemListElement":[{"@type":"ListItem","position":1,"name":"ミエルーム","item":"https://mieroom.cloud/"},{"@type":"ListItem","position":2,"name":"ブログ","item":"https://mieroom.cloud/blog.html"},{"@type":"ListItem","position":3,"name":"管理会社への客付け報告の進め方｜募集状況をそろえて任される店舗になる","item":"https://mieroom.cloud/articles/kyakuzuke-hokoku.html"}]},{"@type":"FAQPage","mainEntity":[{"@type":"Question","name":"客付け報告は、どのくらいの分量で送るものですか？","acceptedAnswer":{"@type":"Answer","text":"週次であれば、物件ごとに数行で足ります。掲載の状況、問い合わせと案内の件数、申込の状況、止まっている理由の順に並べ、必要なら一言コメントを添える形です。長い文章にすると作る側も読む側も負担になり、続かなくなります。物件数が多い場合は、動きがあった物件を先に並べ、動きのないものはまとめて一覧にしてください。"}},{"@type":"Question","name":"問い合わせがゼロの物件は、何を報告すればよいですか？","acceptedAnswer":{"@type":"Answer","text":"ゼロであること自体が報告する内容です。あわせて、掲載しているポータルサイトと掲載開始日、周辺の募集と比べた条件の印象を一言添えます。ゼロの原因は条件か露出のどちらかに絞られるため、この2点を伝えれば相手は賃料や初期費用、募集条件の見直しを判断できます。黙っているより、ゼロを伝えたほうが物件は動きます。"}},{"@type":"Question","name":"報告の数字が担当者ごとに違ってしまいます。どうすればよいですか？","acceptedAnswer":{"@type":"Answer","text":"数え方の定義を一度決めてください。問い合わせは「物件を指定した連絡が入った時点で1件」、案内は「実際に室内を見た組で1件」のように、数える単位を文章にして店内で共有します。定義が共有されていないと、同じ物件でも報告する人によって数が変わります。記録する場所を1つにそろえると、定義も自然に固定されます。"}}]}]}</script>
+<script type="application/ld+json">{"@context":"https://schema.org","@graph":[{"@type":"BlogPosting","headline":"管理会社への客付け報告の進め方｜募集状況をそろえて任される店舗になる","description":"管理会社や元付へ送る客付け報告を、毎回ゼロから作らずにそろえる手順をまとめました。報告に入れる項目、送る頻度の決め方、決まらない物件の伝え方、報告を作る時間を減らす進め方まで整理しています。","datePublished":"2026-10-27","dateModified":"2026-10-27","inLanguage":"ja","mainEntityOfPage":"https://mieroom.cloud/articles/kyakuzuke-hokoku.html","image":"https://mieroom.cloud/assets/covers/kyakuzuke-hokoku.png","articleSection":"業務効率化","author":{"@type":"Organization","name":"ミエルーム編集部"},"publisher":{"@type":"Organization","name":"株式会社TENERAMENTE","logo":{"@type":"ImageObject","url":"https://teneramente.jp/assets/img/favicon-512.png"}},"keywords":"客付け報告, 管理会社, 募集状況, 業務効率化, 賃貸仲介"},{"@type":"BreadcrumbList","itemListElement":[{"@type":"ListItem","position":1,"name":"ミエルーム","item":"https://mieroom.cloud/"},{"@type":"ListItem","position":2,"name":"ブログ","item":"https://mieroom.cloud/blog.html"},{"@type":"ListItem","position":3,"name":"管理会社への客付け報告の進め方｜募集状況をそろえて任される店舗になる","item":"https://mieroom.cloud/articles/kyakuzuke-hokoku.html"}]},{"@type":"FAQPage","mainEntity":[{"@type":"Question","name":"客付け報告は、どのくらいの分量で送るものですか？","acceptedAnswer":{"@type":"Answer","text":"週次であれば、物件ごとに数行で足ります。掲載の状況、問い合わせと案内の件数、申込の状況、止まっている理由の順に並べ、必要なら一言コメントを添える形です。長い文章にすると作る側も読む側も負担になり、続かなくなります。物件数が多い場合は、動きがあった物件を先に並べ、動きのないものはまとめて一覧にしてください。"}},{"@type":"Question","name":"問い合わせがゼロの物件は、何を報告すればよいですか？","acceptedAnswer":{"@type":"Answer","text":"ゼロであること自体が報告する内容です。あわせて、掲載しているポータルサイトと掲載開始日、周辺の募集と比べた条件の印象を一言添えます。ゼロの原因は条件か露出のどちらかに絞られるため、この2点を伝えれば相手は賃料や初期費用、募集条件の見直しを判断できます。黙っているより、ゼロを伝えたほうが物件は動きます。"}},{"@type":"Question","name":"報告の数字が担当者ごとに違ってしまいます。どうすればよいですか？","acceptedAnswer":{"@type":"Answer","text":"数え方の定義を一度決めてください。問い合わせは「物件を指定した連絡が入った時点で1件」、案内は「実際に室内を見た組で1件」のように、数える単位を文章にして店内で共有します。定義が共有されていないと、同じ物件でも報告する人によって数が変わります。記録する場所を1つにそろえると、定義も自然に固定されます。"}}]}]}</script>
 <style id="mp-nav-fit">
 /* 狭い画面ではヘッダーのボタンを小さくして、右にはみ出さないようにする */
 @media (max-width: 640px) {
@@ -72,7 +75,9 @@
     </div>
   </div>
 </section>
-
+<div class="post-cover">
+  <div class="band band--img"><img src="../assets/covers/kyakuzuke-hokoku.webp" alt="管理会社への客付け報告の進め方｜募集状況をそろえて任される店舗になる" width="1200" height="675" decoding="async"></div>
+</div>
 <div class="post-body">
 <p>管理会社や元付から預かった物件について、「今どうなっていますか」と聞かれてから慌てて数えていないでしょうか。賃貸仲介の店舗にとって客付け報告は売上に直接つながらない作業ですが、<strong>次にどの物件を任されるかは、この報告の中身で決まります</strong>。毎回ゼロから作らずにそろえる手順を整理します。</p>
 <div class="conclusion">

diff --git a/mieroom/blog.html b/mieroom/blog.html
@@ -185,7 +185,7 @@ src="https://www.facebook.com/tr?id=28086413637650888&ev=PageView&noscript=1"
       </a>
 
       <a class="bpost" data-cat="売上管理" data-text="賃貸仲介の来期売上計画の立て方｜月別の季節差を踏まえて組む手順 売上管理 売上計画 目標設定 店舗運営 賃貸仲介" href="articles/raiki-uriage-keikaku.html">
-        <div class="bcover bcover--text"><span class="bct-cat">売上管理</span><b>賃貸仲介の来期売上計画の立て方｜月別の季節差を踏まえて組む手順</b></div>
+        <div class="bcover bcover--img"><img src="assets/covers/raiki-uriage-keikaku-card.webp" alt="賃貸仲介の来期売上計画の立て方｜月別の季節差を踏まえて組む手順" loading="lazy" decoding="async" width="640" height="360"></div>
         <div class="bbody">
           <div class="bmeta"><span class="bcat">売上管理</span><span class="bdate">2026.11.27</span></div>
           <h3>賃貸仲介の来期売上計画の立て方｜月別の季節差を踏まえて組む手順</h3>
@@ -195,7 +195,7 @@ src="https://www.facebook.com/tr?id=28086413637650888&ev=PageView&noscript=1"
       </a>
 
       <a class="bpost" data-cat="組織・育成" data-text="賃貸仲介の業務分担の決め方｜一貫担当と分業の分かれ目 組織づくり 役割分担 店舗運営 繁忙期 賃貸仲介" href="articles/gyomu-buntan-kimekata.html">
-        <div class="bcover bcover--text"><span class="bct-cat">組織・育成</span><b>賃貸仲介の業務分担の決め方｜一貫担当と分業の分かれ目</b></div>
+        <div class="bcover bcover--img"><img src="assets/covers/gyomu-buntan-kimekata-card.webp" alt="賃貸仲介の業務分担の決め方｜一貫担当と分業の分かれ目" loading="lazy" decoding="async" width="640" height="360"></div>
         <div class="bbody">
           <div class="bmeta"><span class="bcat">組織・育成</span><span class="bdate">2026.11.26</span></div>
           <h3>賃貸仲介の業務分担の決め方｜一貫担当と分業の分かれ目</h3>
@@ -205,7 +205,7 @@ src="https://www.facebook.com/tr?id=28086413637650888&ev=PageView&noscript=1"
       </a>
 
       <a class="bpost" data-cat="業務効率化" data-text="賃貸の申込が重なったときの進め方｜一番手・二番手の管理と伝え方 申込管理 入居審査 繁忙期 業務効率化 賃貸仲介" href="articles/moushikomi-juufuku-taio.html">
-        <div class="bcover bcover--text"><span class="bct-cat">業務効率化</span><b>賃貸の申込が重なったときの進め方｜一番手・二番手の管理と伝え方</b></div>
+        <div class="bcover bcover--img"><img src="assets/covers/moushikomi-juufuku-taio-card.webp" alt="賃貸の申込が重なったときの進め方｜一番手・二番手の管理と伝え方" loading="lazy" decoding="async" width="640" height="360"></div>
         <div class="bbody">
           <div class="bmeta"><span class="bcat">業務効率化</span><span class="bdate">2026.11.25</span></div>
           <h3>賃貸の申込が重なったときの進め方｜一番手・二番手の管理と伝え方</h3>
@@ -215,7 +215,7 @@ src="https://www.facebook.com/tr?id=28086413637650888&ev=PageView&noscript=1"
       </a>
 
       <a class="bpost" data-cat="集客・広告" data-text="賃貸仲介の自社ホームページから反響を取る方法｜ポータル以外の経路を育てる順番 自社サイト 反響 集客 ホームページ 賃貸仲介" href="articles/jisha-site-hankyo.html">
-        <div class="bcover bcover--text"><span class="bct-cat">集客・広告</span><b>賃貸仲介の自社ホームページから反響を取る方法｜ポータル以外の経路を育てる順番</b></div>
+        <div class="bcover bcover--img"><img src="assets/covers/jisha-site-hankyo-card.webp" alt="賃貸仲介の自社ホームページから反響を取る方法｜ポータル以外の経路を育てる順番" loading="lazy" decoding="async" width="640" height="360"></div>
         <div class="bbody">
           <div class="bmeta"><span class="bcat">集客・広告</span><span class="bdate">2026.11.24</span></div>
           <h3>賃貸仲介の自社ホームページから反響を取る方法｜ポータル以外の経路を育てる順番</h3>
@@ -495,7 +495,7 @@ src="https://www.facebook.com/tr?id=28086413637650888&ev=PageView&noscript=1"
       </a>
 
       <a class="bpost" data-cat="業務効率化" data-text="管理会社への客付け報告の進め方｜募集状況をそろえて任される店舗になる 客付け報告 管理会社 募集状況 業務効率化 賃貸仲介" href="articles/kyakuzuke-hokoku.html">
-        <div class="bcover bcover--text"><span class="bct-cat">業務効率化</span><b>管理会社への客付け報告の進め方｜募集状況をそろえて任される店舗になる</b></div>
+        <div class="bcover bcover--img"><img src="assets/covers/kyakuzuke-hokoku-card.webp" alt="管理会社への客付け報告の進め方｜募集状況をそろえて任される店舗になる" loading="lazy" decoding="async" width="640" height="360"></div>
         <div class="bbody">
           <div class="bmeta"><span class="bcat">業務効率化</span><span class="bdate">2026.10.27</span></div>
           <h3>管理会社への客付け報告の進め方｜募集状況をそろえて任される店舗になる</h3>

diff --git a/blog.html b/blog.html
@@ -143,7 +143,7 @@ src="https://www.facebook.com/tr?id=28086413637650888&ev=PageView&noscript=1"
   <div class="wrap">
     <div class="articles-grid" data-articles><!--STATIC-CARDS-->
       <a class="article-card reveal" href="2026-11-27-juhatchu-kanri-system-chusho.html" data-cat="app">
-        <div class="visual"><img src="assets/img/covers/2026-11-27-juhatchu-kanri-system-chusho.png" alt="" width="640" height="336" loading="lazy" decoding="async" style="position:absolute;inset:0;width:100%;height:100%;object-fit:cover;"></div>
+        <div class="visual"><img src="assets/img/covers/2026-11-27-juhatchu-kanri-system-chusho-card.webp" alt="" width="640" height="336" loading="lazy" decoding="async" style="position:absolute;inset:0;width:100%;height:100%;object-fit:cover;"></div>
         <div class="meta-row">
           <span class="cat">Web App</span>
           <span class="dot"></span>
@@ -154,7 +154,7 @@ src="https://www.facebook.com/tr?id=28086413637650888&ev=PageView&noscript=1"
         <span class="read">10 min read</span>
       </a>
       <a class="article-card reveal" href="2026-11-26-lp-seika-wakeru-yoso.html" data-cat="hp">
-        <div class="visual v-violet"><img src="assets/img/covers/2026-11-26-lp-seika-wakeru-yoso.png" alt="" width="640" height="336" loading="lazy" decoding="async" style="position:absolute;inset:0;width:100%;height:100%;object-fit:cover;"></div>
+        <div class="visual v-violet"><img src="assets/img/covers/2026-11-26-lp-seika-wakeru-yoso-card.webp" alt="" width="640" height="336" loading="lazy" decoding="async" style="position:absolute;inset:0;width:100%;height:100%;object-fit:cover;"></div>
         <div class="meta-row">
           <span class="cat">HP / LP</span>
           <span class="dot"></span>
@@ -165,7 +165,7 @@ src="https://www.facebook.com/tr?id=28086413637650888&ev=PageView&noscript=1"
         <span class="read">10 min read</span>
       </a>
       <a class="article-card reveal" href="2026-11-25-rag-kochiku-hiyo-small-start.html" data-cat="ai">
-        <div class="visual v-cyan"><img src="assets/img/covers/2026-11-25-rag-kochiku-hiyo-small-start.png" alt="" width="640" height="336" loading="lazy" decoding="async" style="position:absolute;inset:0;width:100%;height:100%;object-fit:cover;"></div>
+        <div class="visual v-cyan"><img src="assets/img/covers/2026-11-25-rag-kochiku-hiyo-small-start-card.webp" alt="" width="640" height="336" loading="lazy" decoding="async" style="position:absolute;inset:0;width:100%;height:100%;object-fit:cover;"></div>
         <div class="meta-row">
           <span class="cat">AI</span>
           <span class="dot"></span>
@@ -176,7 +176,7 @@ src="https://www.facebook.com/tr?id=28086413637650888&ev=PageView&noscript=1"
         <span class="read">10 min read</span>
       </a>
       <a class="article-card reveal" href="2026-11-24-gyomu-app-hoshu-hiyo-uchiwake.html" data-cat="app">
-        <div class="visual"><img src="assets/img/covers/2026-11-24-gyomu-app-hoshu-hiyo-uchiwake.png" alt="" width="640" height="336" loading="lazy" decoding="async" style="position:absolute;inset:0;width:100%;height:100%;object-fit:cover;"></div>
+        <div class="visual"><img src="assets/img/covers/2026-11-24-gyomu-app-hoshu-hiyo-uchiwake-card.webp" alt="" width="640" height="336" loading="lazy" decoding="async" style="position:absolute;inset:0;width:100%;height:100%;object-fit:cover;"></div>
         <div class="meta-row">
           <span class="cat">Web App</span>
           <span class="dot"></span>

diff --git a/2026-11-24-gyomu-app-hoshu-hiyo-uchiwake.html b/2026-11-24-gyomu-app-hoshu-hiyo-uchiwake.html
@@ -179,7 +179,7 @@ src="https://www.facebook.com/tr?id=28086413637650888&ev=PageView&noscript=1"
 </section>
 
 <div class="post-cover">
-  <div class="post-cover-inner"><img src="assets/img/covers/2026-11-24-gyomu-app-hoshu-hiyo-uchiwake.png" alt="業務アプリの保守・運用費に何が含まれるか｜月額で見るべきポイント" width="1200" height="630" fetchpriority="high" decoding="async" style="position:absolute;inset:0;width:100%;height:100%;object-fit:cover;"></div>
+  <div class="post-cover-inner"><img src="assets/img/covers/2026-11-24-gyomu-app-hoshu-hiyo-uchiwake.webp" alt="業務アプリの保守・運用費に何が含まれるか｜月額で見るべきポイント" width="1200" height="630" fetchpriority="high" decoding="async" style="position:absolute;inset:0;width:100%;height:100%;object-fit:cover;"></div>
 </div>
 
 <div class="post-wrap">

diff --git a/2026-11-27-juhatchu-kanri-system-chusho.html b/2026-11-27-juhatchu-kanri-system-chusho.html
@@ -179,7 +179,7 @@ src="https://www.facebook.com/tr?id=28086413637650888&ev=PageView&noscript=1"
 </section>
 
 <div class="post-cover">
-  <div class="post-cover-inner"><img src="assets/img/covers/2026-11-27-juhatchu-kanri-system-chusho.png" alt="受発注管理システムを中小企業が小さく始める手順と費用の考え方" width="1200" height="630" fetchpriority="high" decoding="async" style="position:absolute;inset:0;width:100%;height:100%;object-fit:cover;"></div>
+  <div class="post-cover-inner"><img src="assets/img/covers/2026-11-27-juhatchu-kanri-system-chusho.webp" alt="受発注管理システムを中小企業が小さく始める手順と費用の考え方" width="1200" height="630" fetchpriority="high" decoding="async" style="position:absolute;inset:0;width:100%;height:100%;object-fit:cover;"></div>
 </div>
 
 <div class="post-wrap">

diff --git a/2026-11-25-rag-kochiku-hiyo-small-start.html b/2026-11-25-rag-kochiku-hiyo-small-start.html
@@ -179,7 +179,7 @@ src="https://www.facebook.com/tr?id=28086413637650888&ev=PageView&noscript=1"
 </section>
 
 <div class="post-cover">
-  <div class="post-cover-inner"><img src="assets/img/covers/2026-11-25-rag-kochiku-hiyo-small-start.png" alt="RAG構築の費用はどこで決まるか｜小さく試す範囲の決め方" width="1200" height="630" fetchpriority="high" decoding="async" style="position:absolute;inset:0;width:100%;height:100%;object-fit:cover;"></div>
+  <div class="post-cover-inner"><img src="assets/img/covers/2026-11-25-rag-kochiku-hiyo-small-start.webp" alt="RAG構築の費用はどこで決まるか｜小さく試す範囲の決め方" width="1200" height="630" fetchpriority="high" decoding="async" style="position:absolute;inset:0;width:100%;height:100%;object-fit:cover;"></div>
 </div>
 
 <div class="post-wrap">

diff --git a/2026-11-26-lp-seika-wakeru-yoso.html b/2026-11-26-lp-seika-wakeru-yoso.html
@@ -179,7 +179,7 @@ src="https://www.facebook.com/tr?id=28086413637650888&ev=PageView&noscript=1"
 </section>
 
 <div class="post-cover">
-  <div class="post-cover-inner"><img src="assets/img/covers/2026-11-26-lp-seika-wakeru-yoso.png" alt="LP制作で成果を分ける要素｜費用より先に決めるべき5つのこと" width="1200" height="630" fetchpriority="high" decoding="async" style="position:absolute;inset:0;width:100%;height:100%;object-fit:cover;"></div>
+  <div class="post-cover-inner"><img src="assets/img/covers/2026-11-26-lp-seika-wakeru-yoso.webp" alt="LP制作で成果を分ける要素｜費用より先に決めるべき5つのこと" width="1200" height="630" fetchpriority="high" decoding="async" style="position:absolute;inset:0;width:100%;height:100%;object-fit:cover;"></div>
 </div>
 
 <div class="post-wrap">
